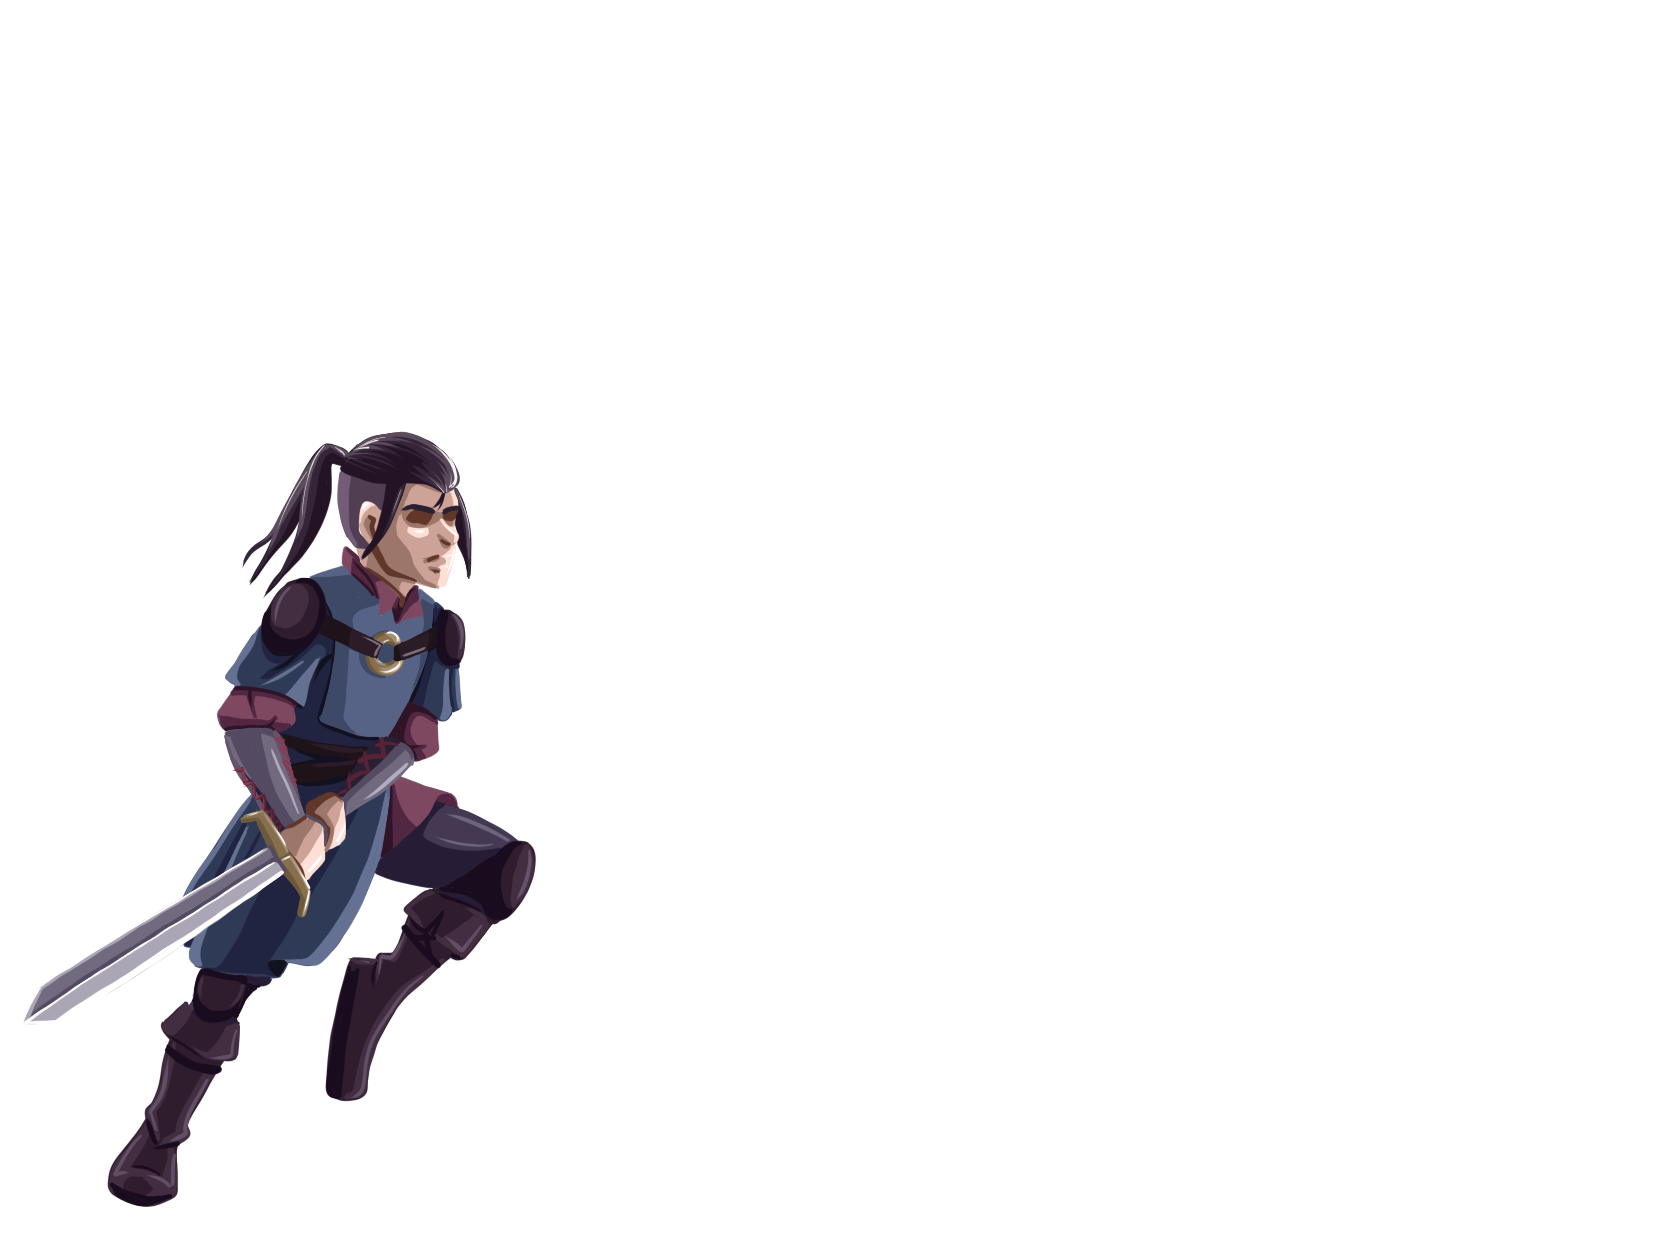
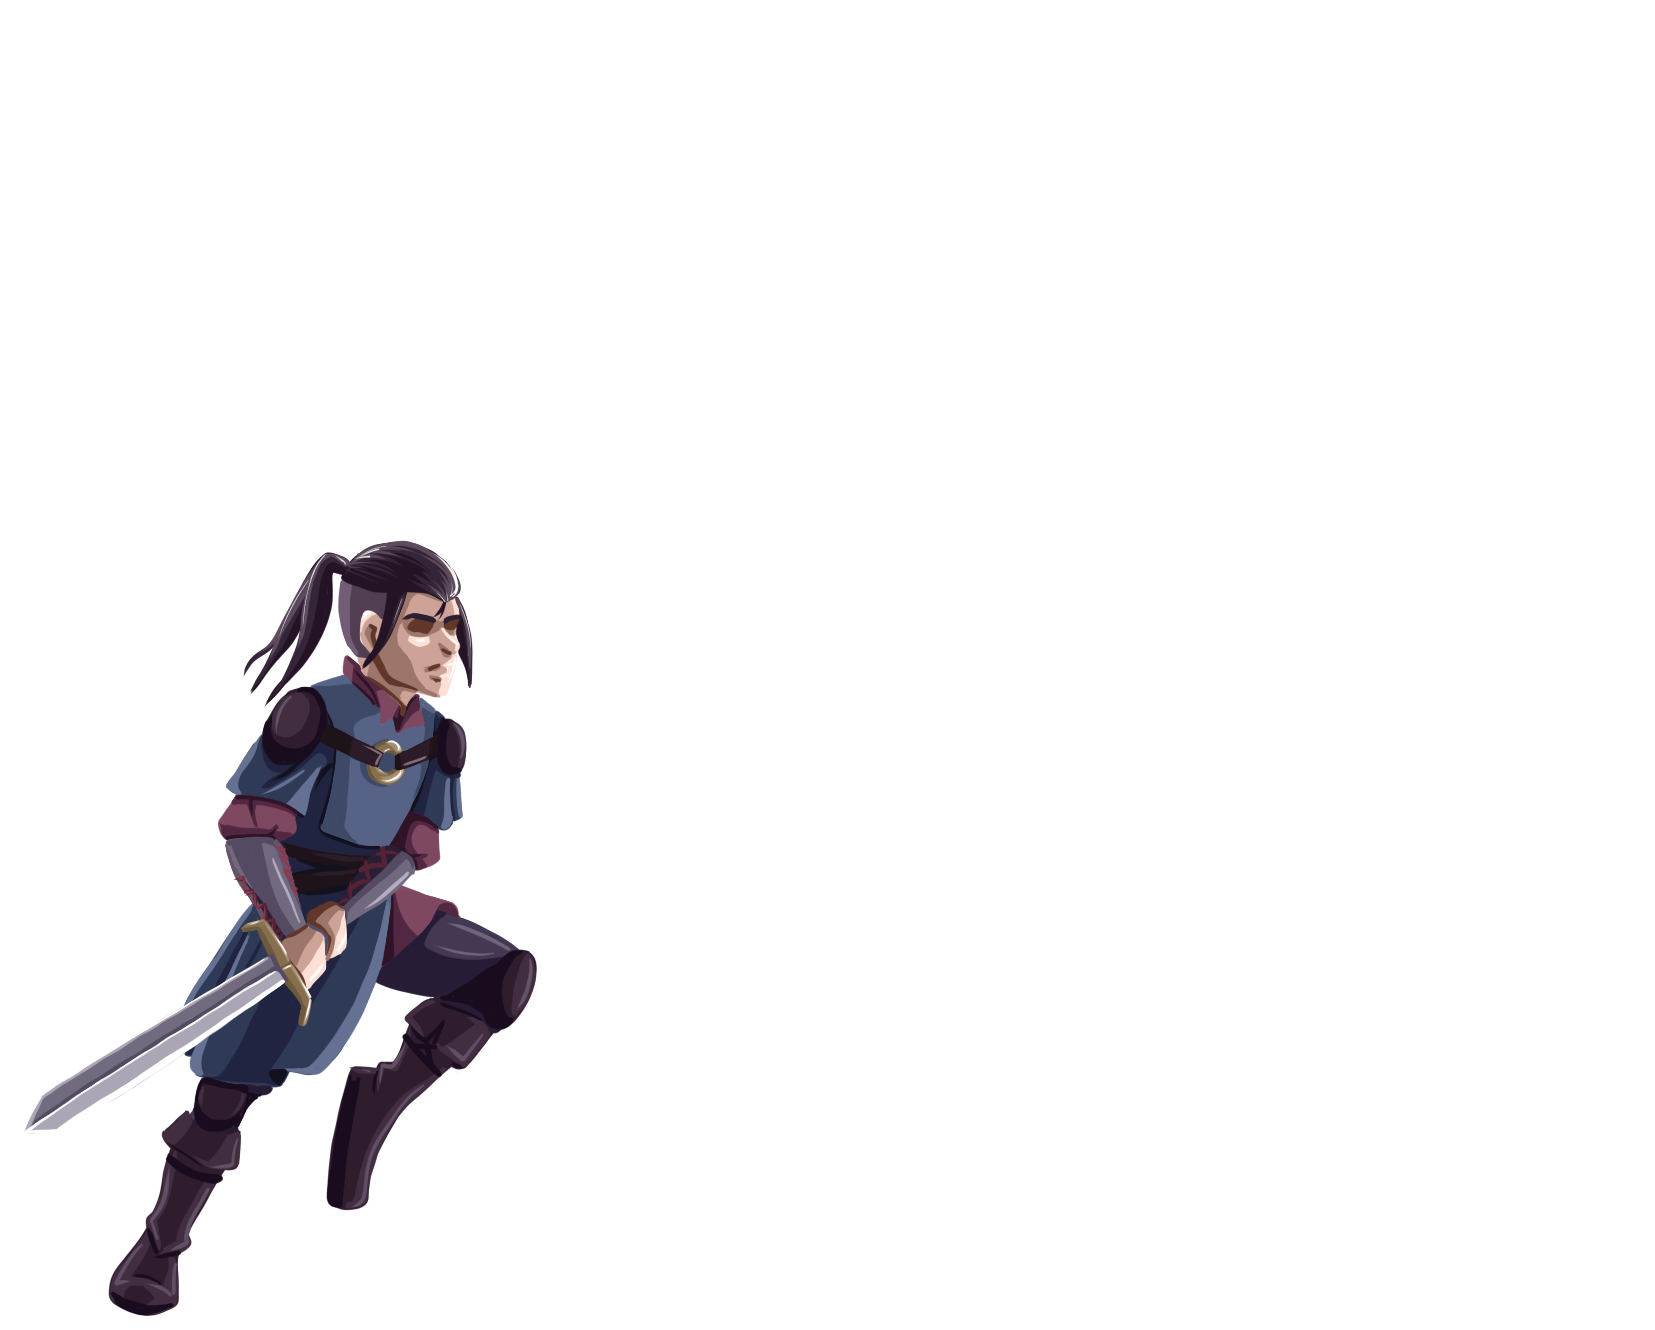
Implement the lightAir ability and fix bugs

Changed region(s): [[0.0, 0.3366, 0.339, 1.0]]

diff --git a/lib/models/character.dart b/lib/models/character.dart
@@ -371,16 +371,19 @@ abstract class Character {
     var box = _bbox;
     if (usingAbility) {
       var boxWidth = _bbox.width * _abilityInProgress.imageBoxWidthRatio;
-      var boxLeft = _bbox.left -
-          _abilityInProgress.hitBoxLeftOffsetRatio[_actionImagesOffset] *
-              boxWidth;
-      if (_facing == 'LEFT') {
-        boxLeft = _bbox.left +
-            _bbox.width -
-            (1 -
-                    _abilityInProgress
-                        .hitBoxLeftOffsetRatio[_actionImagesOffset]) *
+      var boxLeft = _bbox.left;
+      if (_usingStaticAbility) {
+        boxLeft -=
+            _abilityInProgress.hitBoxLeftOffsetRatio[_actionImagesOffset] *
                 boxWidth;
+      }
+      if (_facing == 'LEFT') {
+        boxLeft = _bbox.left + _bbox.width - boxWidth;
+        if (_usingStaticAbility) {
+          boxLeft +=
+              _abilityInProgress.hitBoxLeftOffsetRatio[_actionImagesOffset] *
+                  boxWidth;
+        }
       }
       box = Rect.fromLTWH(
           boxLeft,

diff --git a/lib/models/ability.dart b/lib/models/ability.dart
@@ -49,11 +49,11 @@ class LightAir extends Ability {
     ];
     powerPerImage = [0, 10, 0, 0];
 
-    imageBoxHeightRatio = 1.0;
-    imageBoxWidthRatio = 1.0;
+    imageBoxHeightRatio = 1330 / Constant().lightDefaultHeight;
+    imageBoxWidthRatio = 1655 / Constant().lightDefaultWidth;
 
-    hitBoxLeftOffsetRatio = [0, 0, 0, 0];
-    hitBoxTopOffsetRatio = [0, 0, 0, 0];
+    hitBoxLeftOffsetRatio = [0, 330 / 1655, 850 / 1635, 1100 / 1635];
+    hitBoxTopOffsetRatio = [0, 125 / 1330, 230 / 1330, 650 / 1330];
   }
 }
 
